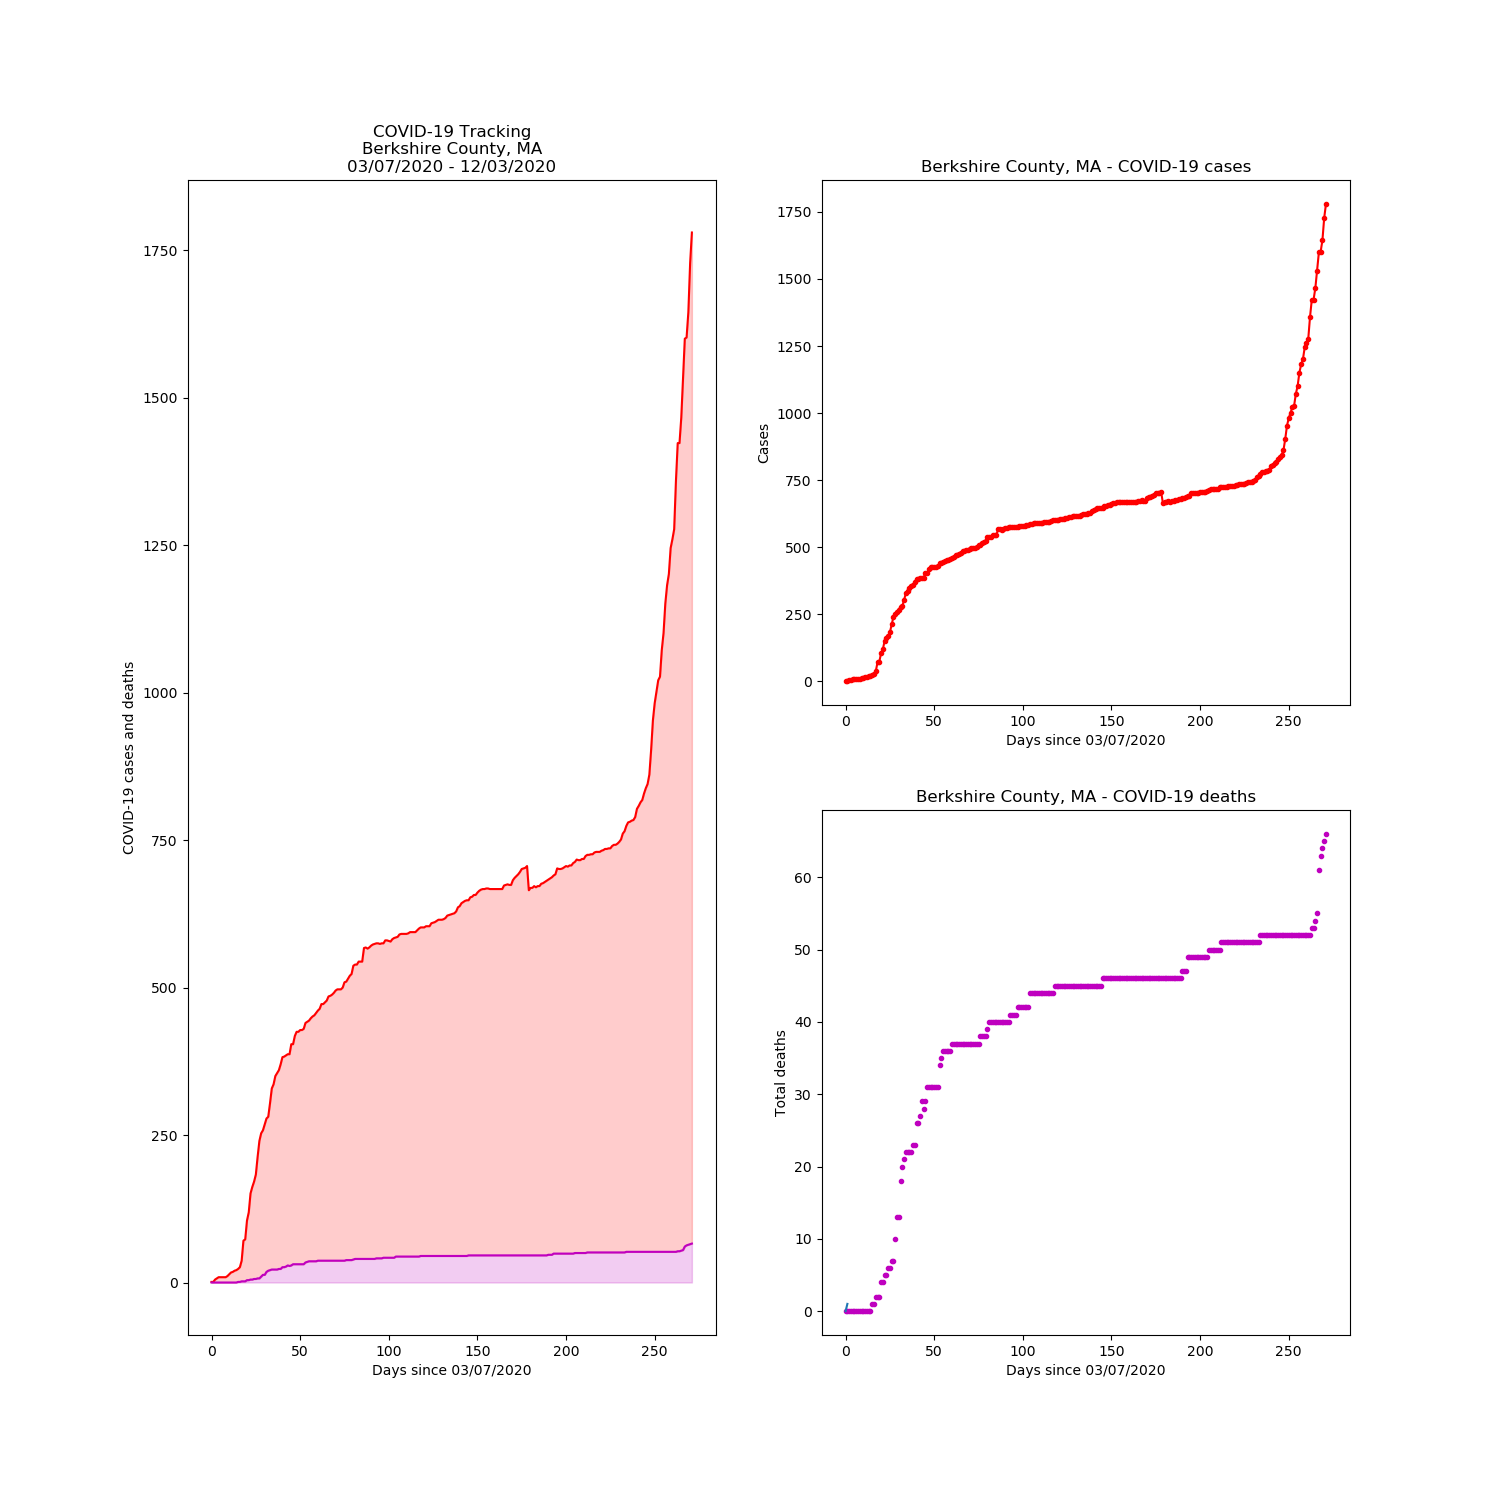
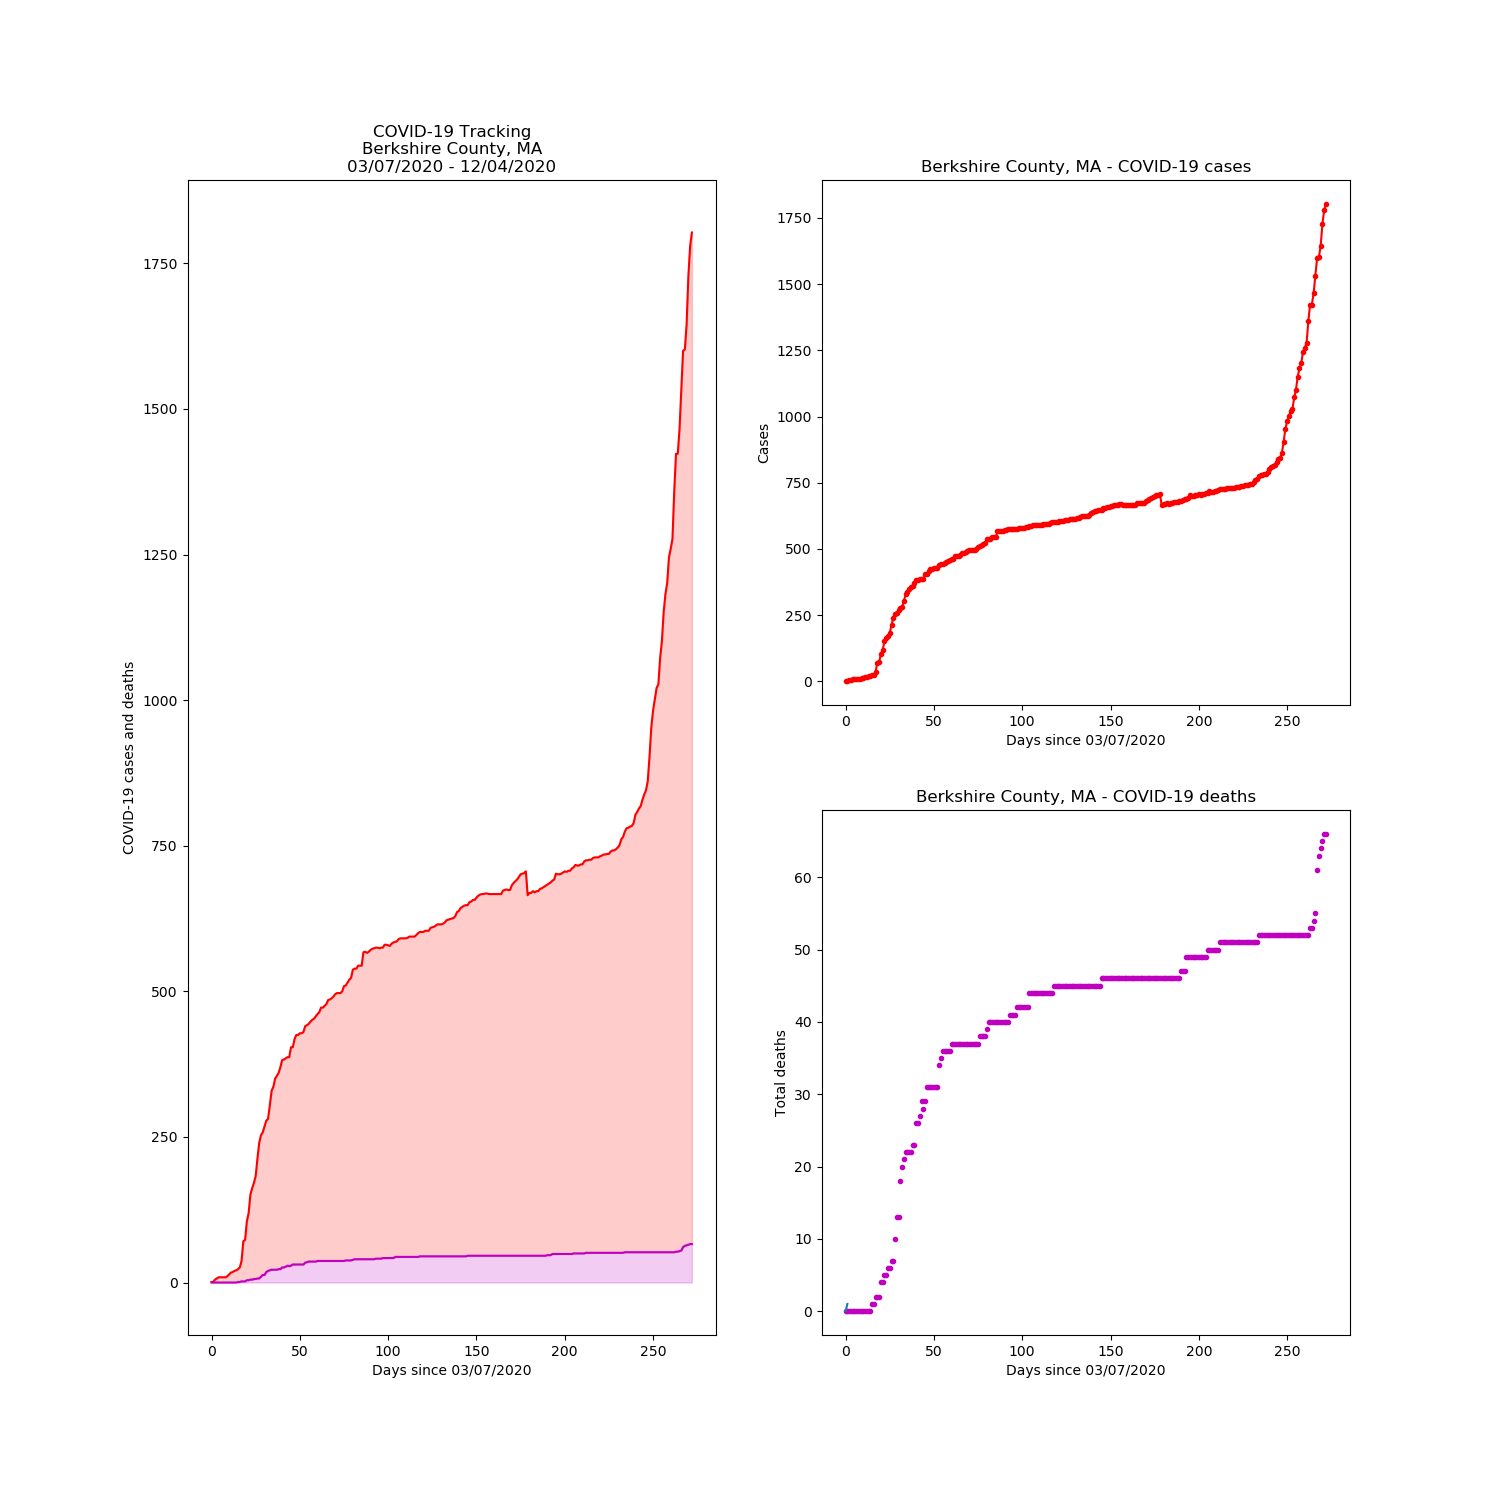
Commit

diff --git a/nytimes_covid.py b/nytimes_covid.py
@@ -9,7 +9,6 @@ import matplotlib.gridspec as gridspec
 def berkshireRows(file): # Parses CSVs
     head = ['date','county','state','fips','cases','deaths']
     file = open(file, 'r').read().splitlines()
-
     return [head] + [i.split(',')  for i in file]
 
 def dateFormat(nytDate):
@@ -43,7 +42,6 @@ def plotCovid(rows):
 
     startDate = dateFormat(rows[1][0])
     endDate = dateFormat(rows[-1][0])
-
 
     gs = gridspec.GridSpec(2, 2) # Create 2x2 sub plots
 
@@ -80,18 +78,20 @@ def plotCovid(rows):
 
 def csvMdcreate(rows):
     with open('All_Berkshire_Data_Provided.csv', 'w+') as f:
-        for i in finalRows:
+        for i in rows:
             f.write(','.join(i))
             f.write('\n')
 
 
 # Updates .md formatted table in the
 def updateReadme(readmeDate, nytDate, head=''):
+    os.system('csvtomd All_Berkshire_Data_Provided.csv > markdown_table.md')
+    
     fname = 'README.md'
 
     print(f'Updating markdown_table.md and README.md for {nytDate}')
     print(f'{readmeDate} found in head.md')
-    os.system('csvtomd All_Berkshire_Data_Provided.csv > markdown_table.md')
+
     os.system('cp README.md previous_README.md')
 
     head[2] = f'**Most Recent Update: {nytDate}**'
@@ -118,6 +118,9 @@ if __name__ == '__main__':
         print()
 
     rows = berkshireRows(curledCsv)
+    csvMdcreate(rows)
+    finalRows = [['Date', 'Cases (Total Δ=Daily Change)', 'Deaths (Total Δ=Daily Change)']] + [i for i in reversed(shortenTable(rows))]
+
 
     nytDate = dateFormat(rows[-1][0])
 
@@ -126,12 +129,11 @@ if __name__ == '__main__':
     readmeDate = head[2].split(': ')[-1].strip('**')
     if readmeDate == nytDate and os.path.exists('All_Berkshire_Data_Provided.csv'):
         print(f'README.md date: {readmeDate}')
-        sys.exit('README.md is up to date')
+        print('README.md is up to date')
 
 
     plotCovid(rows)
 
-    finalRows = [['Date', 'Cases (Total Δ=Daily Change)', 'Deaths (Total Δ=Daily Change)']] + [i for i in reversed(shortenTable(rows))]
 
     csvMdcreate(finalRows)
     updateReadme(readmeDate, nytDate, head=head)

diff --git a/README.md b/README.md
@@ -1,6 +1,6 @@
 # Berkshire County, Massachusetts COVID-19 data
 
-**Most Recent Update: 12/03/2020**
+**Most Recent Update: 12/04/2020**
 
 [Using the New York Time's covid tracker](https://raw.githubusercontent.com/nytimes/covid-19-data/master/us-counties.csv)
 
@@ -10,6 +10,7 @@
 
 Date        |  Cases (Total Δ=Daily Change)  |  Deaths (Total Δ=Daily Change)
 ------------|--------------------------------|-------------------------------
+12/04/2020  |  1803: Δ=23                    |  66: Δ=0
 12/03/2020  |  1780: Δ=52                    |  66: Δ=1
 12/02/2020  |  1728: Δ=83                    |  65: Δ=1
 12/01/2020  |  1645: Δ=43                    |  64: Δ=1

diff --git a/markdown_table.md b/markdown_table.md
@@ -1,5 +1,6 @@
 Date        |  Cases (Total Δ=Daily Change)  |  Deaths (Total Δ=Daily Change)
 ------------|--------------------------------|-------------------------------
+12/04/2020  |  1803: Δ=23                    |  66: Δ=0
 12/03/2020  |  1780: Δ=52                    |  66: Δ=1
 12/02/2020  |  1728: Δ=83                    |  65: Δ=1
 12/01/2020  |  1645: Δ=43                    |  64: Δ=1

diff --git a/head.md b/head.md
@@ -1,6 +1,6 @@
 # Berkshire County, Massachusetts COVID-19 data
 
-**Most Recent Update: 12/03/2020**
+**Most Recent Update: 12/04/2020**
 
 [Using the New York Time's covid tracker](https://raw.githubusercontent.com/nytimes/covid-19-data/master/us-counties.csv)
 
